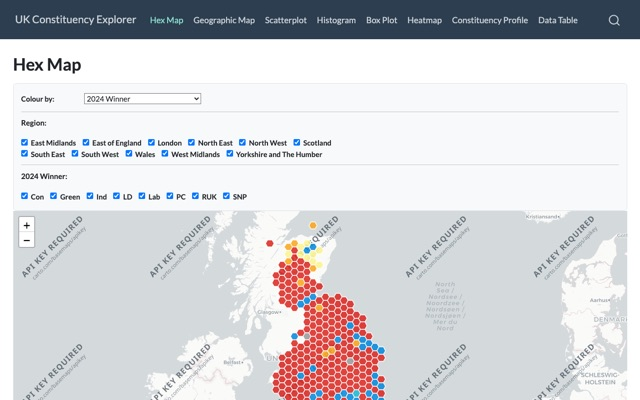
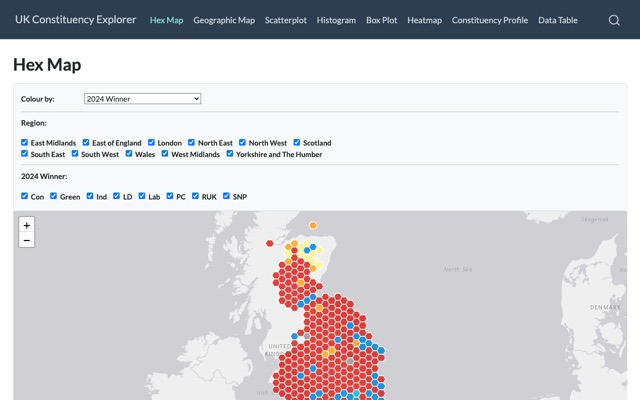
Retake Lab thumbnails for the two map projects after the tile fix

diff --git a/projects/index.html b/projects/index.html
@@ -44,7 +44,7 @@
                     <p class="lab-shelf-intro">Interactive explorers built on real data: elections, the census, public opinion and taxes.</p>
                     <div class="project-grid">
                         <a class="project-card" href="https://benwansell.github.io/le2026/">
-                            <img class="project-thumb" src="/site-draft/assets/img/lab/le2026.jpg" alt="" loading="lazy" width="640" height="400">
+                            <img class="project-thumb" src="/site-draft/assets/img/lab/le2026.jpg?v=2" alt="" loading="lazy" width="640" height="400">
                             <span class="project-body">
                                 <h3>2026 Local Election Explorer</h3>
                                 <p>Ward-level results for the 2026 English local elections mapped against 2021 Census demographics, with an interactive scatterplot and regression analysis.</p>
@@ -52,7 +52,7 @@
                             </span>
                         </a>
                         <a class="project-card" href="https://benwansell.github.io/constituency-map/">
-                            <img class="project-thumb" src="/site-draft/assets/img/lab/constituency-map.jpg" alt="" loading="lazy" width="640" height="400">
+                            <img class="project-thumb" src="/site-draft/assets/img/lab/constituency-map.jpg?v=2" alt="" loading="lazy" width="640" height="400">
                             <span class="project-body">
                                 <h3>Constituency Map</h3>
                                 <p>A hex map and explorer of UK constituency data, demographics and election results.</p>
